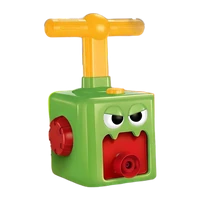
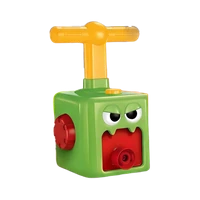
Кадр не выше подиума в высоких окнах; кружки наборов с запасом под круг

Changed region(s): [[0.21, 0.06, 0.81, 0.96], [0.54, 0.48, 0.57, 0.51]]

diff --git a/index.html b/index.html
@@ -55,8 +55,9 @@
     /* Форма и ритм */
     --pill-h:52px; --thumb:60px; --rail-gap:10px; --rail-inset:8px; --rail-pad:12px;
     --gutter:20px;
-    /* Кадр сцены: квадратная картинка, которая накрывает экран; центр задаёт скрипт */
-    --cover-size:100vw; --cover-cx:48%;
+    /* Кадр сцены: квадратная картинка, которая накрывает экран; центр и предел размера задаёт скрипт:
+       герой не выше подиума, иначе в высоких окнах он налезает на название */
+    --cover-size:min(100vw, var(--cover-max, 9999px)); --cover-cx:48%;
     --font-display:"Unbounded", "Arial Black", system-ui, sans-serif;
     --font-text:"Onest", system-ui, -apple-system, "Segoe UI", Roboto, sans-serif;
     --ease-out:cubic-bezier(.16,1,.3,1);
@@ -214,7 +215,7 @@
 
   /* Десктоп: постер — картинка во всю ширину, название и таблетки внизу слева, лента справа */
   @media (min-width:900px){
-    :root{--thumb:76px; --rail-gap:14px; --rail-inset:26px; --gutter:56px; --cover-size:min(112dvh, 100vw); --cover-cx:60%}
+    :root{--thumb:76px; --rail-gap:14px; --rail-inset:26px; --gutter:56px; --cover-size:min(112dvh, 100vw, var(--cover-max, 9999px)); --cover-cx:60%}
     .logo img{width:168px}
     .top{padding-top:26px}
     .layer .frame{
@@ -383,6 +384,7 @@
     var sceneTop = scene.getBoundingClientRect().top;
     var r = podium.getBoundingClientRect();
     var podiumCy = r.top - sceneTop + r.height / 2;
+    root.style.setProperty('--cover-max', Math.round(r.height * 0.92 / box[3]) + 'px');   // герой ≤ 92 % высоты подиума
     var frame = cover.querySelector('.frame');
     var size = frame ? frame.offsetHeight : Math.max(window.innerWidth, window.innerHeight);
     var pc = box[1] + box[3] / 2;
